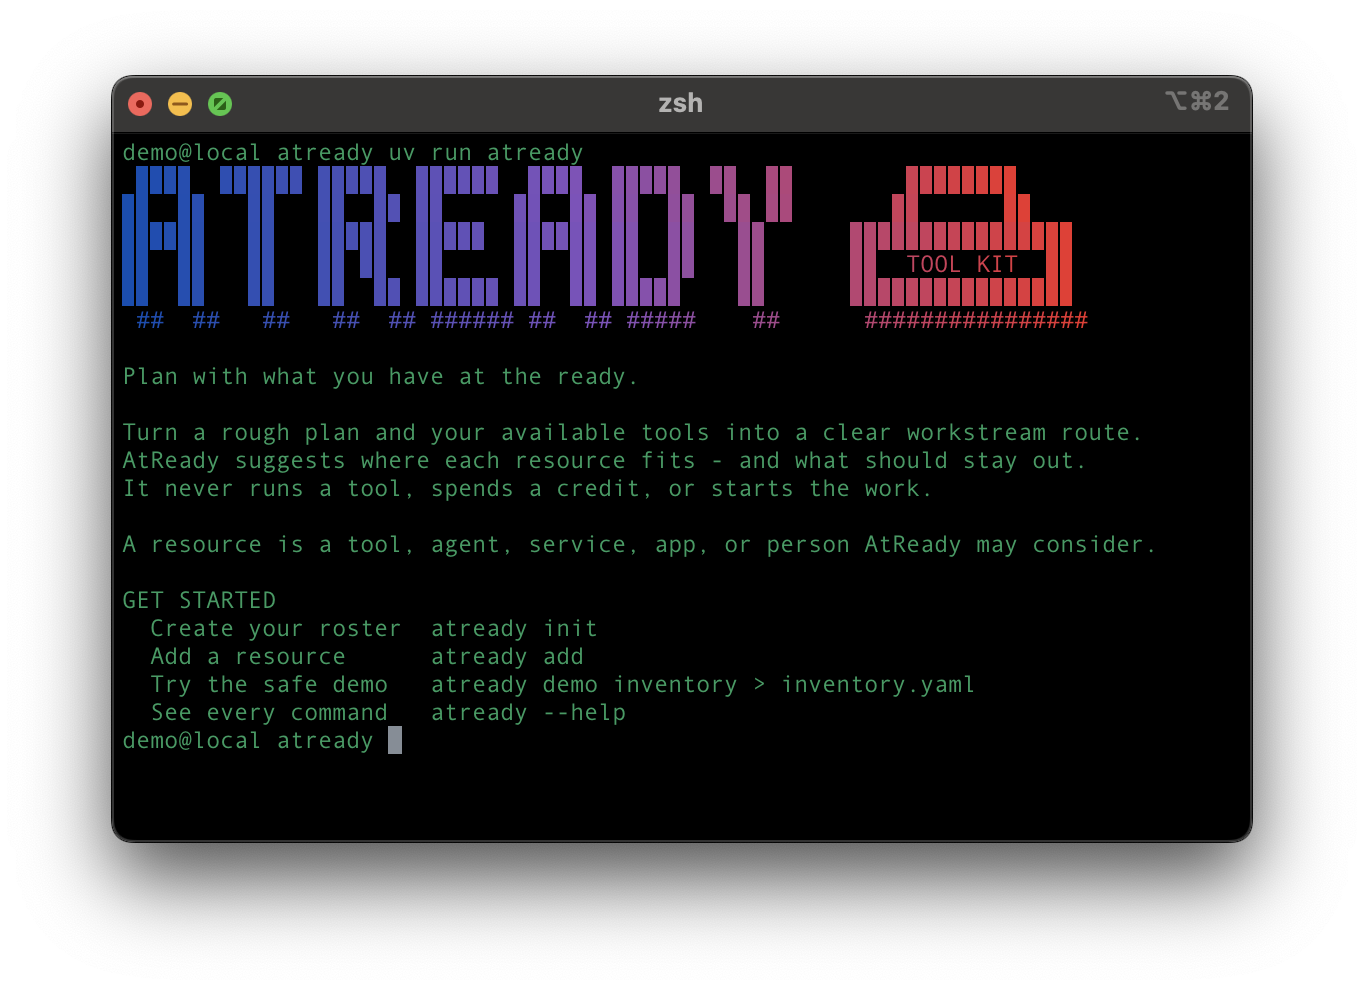
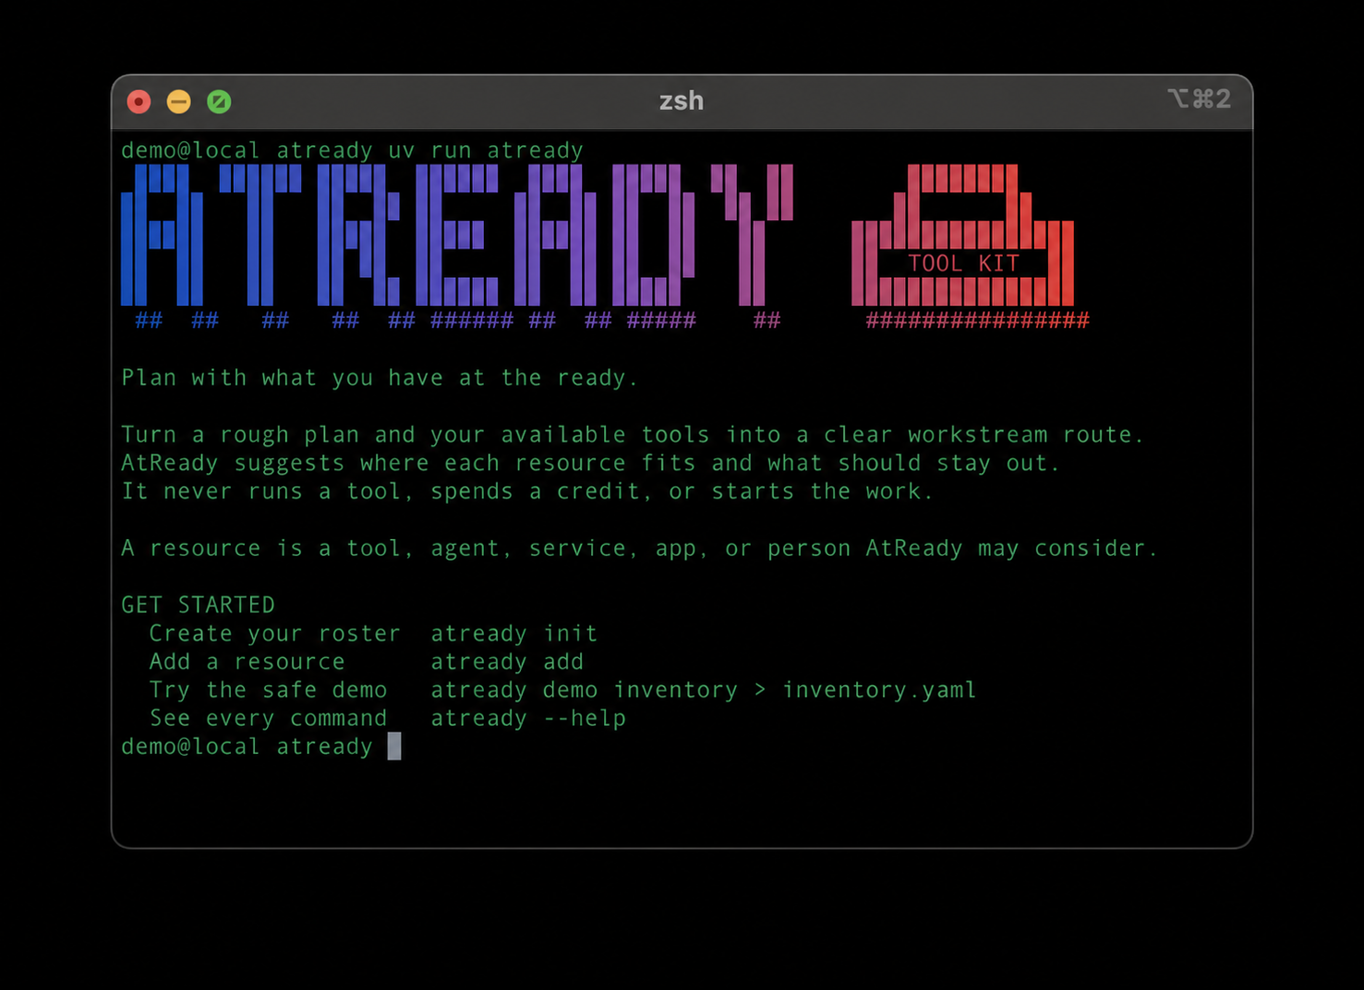
Remove dash-heavy copy

diff --git a/trust-site/app/support/page.tsx b/trust-site/app/support/page.tsx
@@ -13,7 +13,7 @@ export default function SupportPage() {
         <PolicyHeading
           code="support document 04"
           title="Support"
-          description="What to prepare when something goes wrong—and which public support pieces are not active yet."
+          description="What to prepare when something goes wrong and which public support pieces are not active yet."
         />
         <div className="notice">
           <strong>Public support is not active.</strong> AtReady is still in private
@@ -41,7 +41,7 @@ export default function SupportPage() {
                 <li>Operating system, Python version, and the host surface used.</li>
                 <li>The smallest command or prompt that reproduces the issue.</li>
                 <li>Expected behavior and actual behavior.</li>
-                <li>Synthetic input only—remove real resource names, projects, paths, and accounts.</li>
+                <li>Use synthetic input only. Remove real resource names, projects, paths, and accounts.</li>
               </ul>
             </section>
             <section className="prose-section">

diff --git a/trust-site/app/atready/page.tsx b/trust-site/app/atready/page.tsx
@@ -44,7 +44,7 @@ export default function AtReadyPage() {
             <p className="hero-copy">
               AtReady is a small planning companion for Codex. It considers the resources
               you chose to declare, suggests where they fit, explains why, and prepares handoff
-              text for review—without contacting or running those resources.
+              text for review without contacting or running those resources.
             </p>
             <div className="button-row">
               <Link className="button" href="/surfaces">

diff --git a/trust-site/app/terms/page.tsx b/trust-site/app/terms/page.tsx
@@ -16,7 +16,7 @@ export default function TermsPage() {
           description="The responsibilities and limits that accompany AtReady’s advisory planning output."
         />
         <div className="notice">
-          <strong>Draft—not in force.</strong> Maintainer and owner approval, publisher identity,
+          <strong>Draft. Not in force.</strong> Maintainer and owner approval, publisher identity,
           final effective date, and public URL are required before this can serve as public legal
           copy.
         </div>

diff --git a/trust-site/app/layout.tsx b/trust-site/app/layout.tsx
@@ -3,8 +3,8 @@ import "./globals.css";
 
 export const metadata: Metadata = {
   title: {
-    default: "AtReady — Product & Trust",
-    template: "%s — AtReady",
+    default: "AtReady | Product & Trust",
+    template: "%s | AtReady",
   },
   description:
     "AtReady product, privacy, security, support, terms, and supported-surface information.",

diff --git a/tests/test_public_copy_style.py b/tests/test_public_copy_style.py
@@ -1,0 +1,37 @@
+from pathlib import Path
+
+ROOT = Path(__file__).resolve().parents[1]
+FORBIDDEN_DASHES = (chr(0x2013), chr(0x2014))
+PUBLIC_COPY_FILES = (
+    ROOT / "README.md",
+    ROOT / "PRIVACY.md",
+    ROOT / "SECURITY.md",
+)
+PUBLIC_COPY_TREES = {
+    ROOT / ".github" / "ISSUE_TEMPLATE": {".yml", ".yaml"},
+    ROOT / "docs": {".md"},
+    ROOT / "plugins" / "atready": {".json", ".md", ".yaml", ".yml"},
+    ROOT / "scripts": {".py"},
+    ROOT / "src" / "atready": {".py"},
+    ROOT / "trust-site" / "app": {".ts", ".tsx"},
+}
+
+
+def _authored_copy_files() -> list[Path]:
+    files = list(PUBLIC_COPY_FILES)
+    for tree, suffixes in PUBLIC_COPY_TREES.items():
+        files.extend(path for path in tree.rglob("*") if path.is_file() and path.suffix in suffixes)
+    return sorted(files)
+
+
+def test_authored_public_copy_avoids_em_and_en_dashes() -> None:
+    offenders = []
+    for path in _authored_copy_files():
+        for line_number, line in enumerate(path.read_text(encoding="utf-8").splitlines(), 1):
+            if any(dash in line for dash in FORBIDDEN_DASHES):
+                offenders.append(f"{path.relative_to(ROOT)}:{line_number}")
+
+    assert offenders == [], (
+        "Use a period, comma, colon, or a clearer sentence instead of em/en dashes: "
+        + ", ".join(offenders)
+    )

diff --git a/tests/test_render.py b/tests/test_render.py
@@ -42,7 +42,7 @@ def test_summary_is_concise_plain_language_and_preserves_route_truth() -> None:
     rendered = render_summary(plan, goal=project.goal, width=80)
 
     assert "Resource plan: Synthetic Web Product" in rendered
-    assert "4 steps - 4 assigned - no open gaps" in rendered
+    assert "4 steps · 4 assigned · no open gaps" in rendered
     assert "Use: Synthetic Codex Seat" in rendered
     assert "Best eligible match after applying the project constraints." in rendered
     assert "Deliver: Tested web application." in rendered
@@ -56,6 +56,7 @@ def test_summary_is_concise_plain_language_and_preserves_route_truth() -> None:
     assert plan.plan_id not in rendered
     assert plan.inventory_fingerprint not in rendered
     assert "handoff packet" not in rendered
+    assert " - " not in rendered
 
     for assignment in plan.assignments:
         assert rendered.count(f"Use: {assignment.primary.resource_name}") == 1
@@ -96,7 +97,7 @@ def test_summary_uses_singular_gaps_without_repeating_the_reason() -> None:
 
     rendered = render_summary(plan, width=80)
 
-    assert "1 step - 0 assigned - 1 open gap" in rendered
+    assert "1 step · 0 assigned · 1 open gap" in rendered
     assert "Use: Unassigned" in rendered
     assert rendered.count("Exact synthetic gap reason.") == 1
 

diff --git a/src/atready/render.py b/src/atready/render.py
@@ -114,7 +114,7 @@ def render_summary(plan: RoutePlan, *, goal: str | None = None, width: int = 100
         )
     _append_wrapped(
         lines,
-        f"{len(plan.assignments)} {step_label} - {assigned_count} assigned - {gap_label}",
+        f"{len(plan.assignments)} {step_label} · {assigned_count} assigned · {gap_label}",
         width=width,
     )
 
@@ -421,7 +421,7 @@ def render_markdown(plan: RoutePlan) -> str:
             )
         if assignment.alternate:
             lines.append(
-                f"Alternate: **{_text(assignment.alternate.resource_name)}** — "
+                f"Alternate: **{_text(assignment.alternate.resource_name)}**. "
                 f"{_text(assignment.alternate_activation_condition or '')}"
             )
         for gap in assignment.unresolved_gaps:

diff --git a/src/atready/cli.py b/src/atready/cli.py
@@ -170,7 +170,7 @@ def _welcome_text(*, color: bool, block_art: bool) -> str:
             "Plan with what you have at the ready.",
             "",
             "Turn a rough plan and your available tools into a clear workstream route.",
-            "AtReady suggests where each resource fits - and what should stay out.",
+            "AtReady suggests where each resource fits and what should stay out.",
             "It never runs a tool, spends a credit, or starts the work.",
             "",
             "A resource is a tool, agent, service, app, or person AtReady may consider.",

diff --git a/tests/test_cli.py b/tests/test_cli.py
@@ -30,6 +30,7 @@ def test_bare_cli_is_a_plain_language_welcome(capsys) -> None:
     assert "Add a resource      atready add" in captured.out
     assert "Try the safe demo   atready demo inventory > inventory.yaml" in captured.out
     assert "never runs a tool, spends a credit, or starts the work" in captured.out
+    assert " - " not in captured.out
     assert "\033[" not in captured.out
     assert captured.err == ""
 

diff --git a/scripts/render_listing_screenshots.py b/scripts/render_listing_screenshots.py
@@ -168,7 +168,7 @@ def route_overview() -> Image.Image:
         size=13,
         anchor="ra",
     )
-    # A small geometric index—not an airline or aircraft mark.
+    # A small geometric index, not an airline or aircraft mark.
     draw.ellipse((912, 39, 949, 76), fill=TRANSIT_BLUE)
     draw.ellipse((954, 39, 991, 76), fill=SIGNAL_RED)
     draw.ellipse((996, 39, 1033, 76), fill=WHITE)

diff --git a/README.md b/README.md
@@ -11,15 +11,15 @@ It does not run the work, contact your tools, or spend your credits. You stay in
 ![AtReady welcome screen](https://raw.githubusercontent.com/stoicpickle/atready/main/docs/assets/atready-cli.png)
 
 > **Public beta:** AtReady works today, but its setup and language will keep improving as people try
-> it. Expect changes—and please share what feels confusing or unnecessary.
+> it. Expect changes. Please share what feels confusing or unnecessary.
 
 > **[Try AtReady and tell me how it went](https://github.com/stoicpickle/atready/blob/main/docs/TRY_ATREADY.md)**
-> —one short install, demo, resource, and planning journey for first-time users.
+> One short install, demo, resource, and planning journey for first-time users.
 
 ## The idea in one minute
 
 Maybe you have Codex, CodeRabbit, Cursor, a design subscription, and a small amount of image credit.
-A project comes along. Instead of forgetting what is available—or trying to use everything—AtReady
+A project comes along. Instead of forgetting what is available or trying to use everything, AtReady
 helps answer:
 
 - Which resources are actually useful for this plan?
@@ -32,7 +32,7 @@ AtReady turns those answers into an advisory route and inert handoff notes. Noth
 ## Try the synthetic demo
 
 This example uses bundled fake data and does not touch a personal inventory. After installing
-AtReady, run it from a separate working directory—not the cloned AtReady source repository.
+AtReady, run it from a separate working directory instead of the cloned AtReady source repository.
 
 ```bash
 atready demo inventory > inventory.yaml
@@ -48,7 +48,7 @@ The result looks like this:
 ```text
 Resource plan: Synthetic CLI Release
 Goal: Ship a tested local CLI without network access or telemetry.
-1 step - 1 assigned - no open gaps
+1 step · 1 assigned · no open gaps
 
 Watch
 - This uses a demo inventory. Its contents are not verified as resources you can
@@ -135,8 +135,8 @@ atready inventory add \
   --verified-on "$today"
 ```
 
-Those readiness, cost, data, and date fields are declarations about your setup—not facts AtReady
-silently verifies. The advanced preview shows the complete proposed change, an expected revision,
+Those readiness, cost, data, and date fields are declarations about your setup. AtReady does not
+silently verify them. The advanced preview shows the complete proposed change, an expected revision,
 and a plan token. Nothing is saved until you repeat the command with `--apply`, the exact revision,
 and the exact plan token. Guided and advanced setup both create a private exact-byte backup and
 atomically replace the inventory; both report durability uncertainty instead of pretending a write

diff --git a/docs/DATA_MODEL.md b/docs/DATA_MODEL.md
@@ -73,8 +73,8 @@ batch, merge document, second YAML document, unknown field, or unknown version
 fails closed. JSON is accepted as a YAML subset. Input transport, pathname,
 comments, and key order are not persisted or plan-bound; the fully validated,
 default-materialized candidate is. Semantically identical file/stdin declarations
-therefore produce the same candidate, while any changed persisted value—including
-a hidden note—requires a new preview. A note-bearing declaration also fails when
+therefore produce the same candidate. Any changed persisted value, including a hidden note,
+requires a new preview. A note-bearing declaration also fails when
 the target inventory is `legacy-unblinded`; the nonce is inventory state and is
 never accepted through a resource declaration.
 
@@ -197,9 +197,9 @@ the private-backup atomic replacement engine. Output reveals only the value-free
 
 ## Backup states
 
-Backups are exact prior inventory bytes—including any revision privacy nonce—addressed by their
-full SHA-256 revision. They live under a hashed logical-target namespace adjacent to the active
-inventory. Darwin resolves the physical directory-entry spelling through the opened file
+Backups contain the exact prior inventory bytes, including any revision privacy nonce. They are
+addressed by their full SHA-256 revision. They live under a hashed logical-target namespace
+adjacent to the active inventory. Darwin resolves the physical directory-entry spelling through the opened file
 descriptor. Other supported filesystems use the normalized resolved target name rather than a
 replaceable inode, but first require a fully ASCII basename containing a letter and prove the
 directory's required case behavior by toggling every cased position separately. Each exact variant
